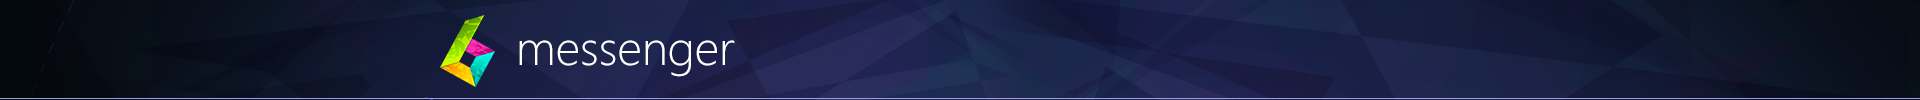
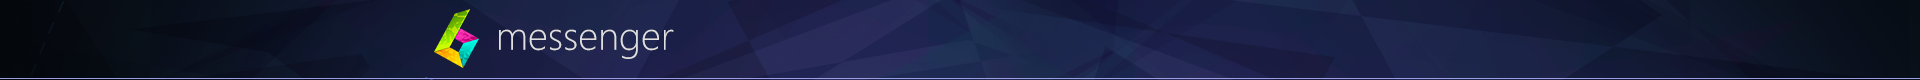
left menu design

diff --git a/www/css/styles.css b/www/css/styles.css
@@ -7,7 +7,7 @@ body {
     /*background: #000;*/
     color: #FFF;
     background: url('/img/header-6messenger.png') no-repeat center center !important;
-    height: 80px !important;
+    height: 70px !important;
     /*no-repeat right -150px  center;*/
 }
 
@@ -23,13 +23,13 @@ body {
     margin-top:30px;
 }
 
-.remove_border {
-    border: 0 !important;
-}
-
 .menu_bottom_border {
     border-bottom: 1px solid #e5e5e5 !important;
     -webkit-border-radius: 4px !important;
+}
+
+.accordion-heading .accordion-toggle{
+	padding: 0px !important;
 }
 
 #footer {
@@ -68,3 +68,35 @@ body {
     padding-bottom: 20px;
     position: relative;
 }
+
+.nav.nav-list li a {
+	color: #333 !important;
+}
+
+.nav.messages li.active a {
+	color: white !important;
+	background-color: #93e401 !important;
+}
+
+.nav.groups li.active a {
+	color: white !important;
+	background-color: #ffcb00 !important;
+}
+
+.accordion-inner {
+	border-left: 1px solid #eee !important;
+	border-right: 1px solid #eee !important;
+	border-top: 0px !important;
+	border-bottom: 0px !important;
+}
+
+.accordion {
+	margin-bottom: 0px !important;
+	border-bottom: 1px solid #eee;
+}
+
+.remove_border {
+    border: 0 !important;
+}
+
+

diff --git a/application/views/menu/menu.php b/application/views/menu/menu.php
@@ -2,12 +2,12 @@
   <div class="accordion-group remove_border">
     <div class="accordion-heading menu_bottom_border">
       <a class="accordion-toggle" data-toggle="collapse" data-parent="#accordion2" href="#collapseOne">
-        Съобщения
+        <img src="/img/messages.png" alt="Съобщения" />
       </a>
     </div>
     <div id="collapseOne" class="accordion-body collapse <?php if($active['controller'] != 'groups' && $active['controller'] != 'specialties') echo 'in'; ?>">
-      <div class="accordion-inner remove_border">
-        <ul class="nav nav-list">
+      <div class="accordion-inner">
+        <ul class="nav nav-list messages">
             <li <?php if($active['controller'] == 'messages' && $active['method'] == 'send') echo 'class="active"'; ?>><a href="/messages/send">Изпрати</a></li>
             <li <?php if($active['controller'] == 'messages' && $active['method'] == 'inbox') echo 'class="active"'; ?>><a href="/messages/inbox">Непрочетени</a></li>
             <li <?php if($active['controller'] == 'messages' && $active['method'] == 'read') echo 'class="active"'; ?>><a href="/messages/read">Прочетени</a></li>
@@ -19,12 +19,12 @@
   <div class="accordion-group remove_border">
     <div class="accordion-heading menu_bottom_border">
       <a class="accordion-toggle" data-toggle="collapse" data-parent="#accordion2" href="#collapseTwo">
-        Групи
+        <img src="/img/groups.png" alt="Групи" />
       </a>
     </div>
     <div id="collapseTwo" class="accordion-body collapse <?php if($active['controller'] == 'groups' || $active['controller'] == 'specialties') echo 'in'; ?>">
-      <div class="accordion-inner remove_border">
-       <ul class="nav nav-list">
+      <div class="accordion-inner">
+       <ul class="nav nav-list groups">
 			<?php foreach($all_my_groups as $my_group): ?>
 				<?php if(isset($my_group['group_id'])): ?>
 					<li <?php if($active['controller'] == 'groups' && $active['param'] == $my_group['group_id']) echo 'class="active"'; ?>>

diff --git a/application/models/model_notifier.php b/application/models/model_notifier.php
@@ -3,7 +3,7 @@
 class Model_notifier extends MY_Model
 {
 	public function notify($user_id, $messages = array())
-	{return;
+	{
 		$this->db->select('student_send_email, student_send_sms, student_email, student_phone');
 		$this->db->from('students');
 		$this->db->where('student_id', $user_id);
